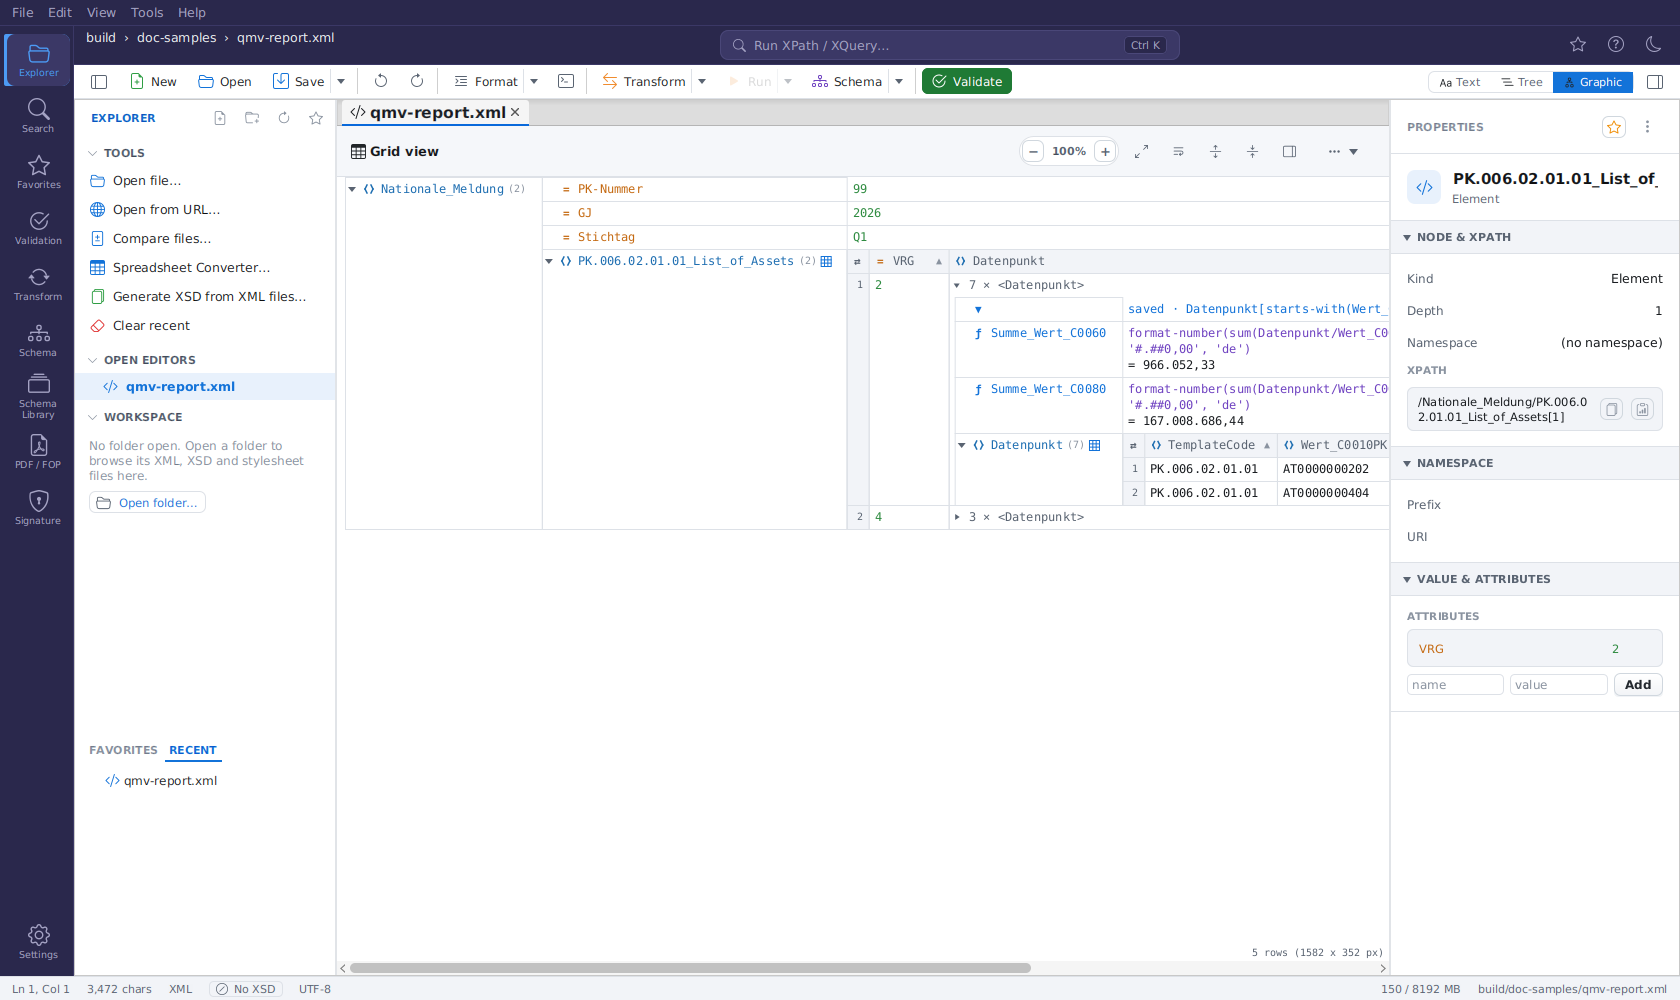
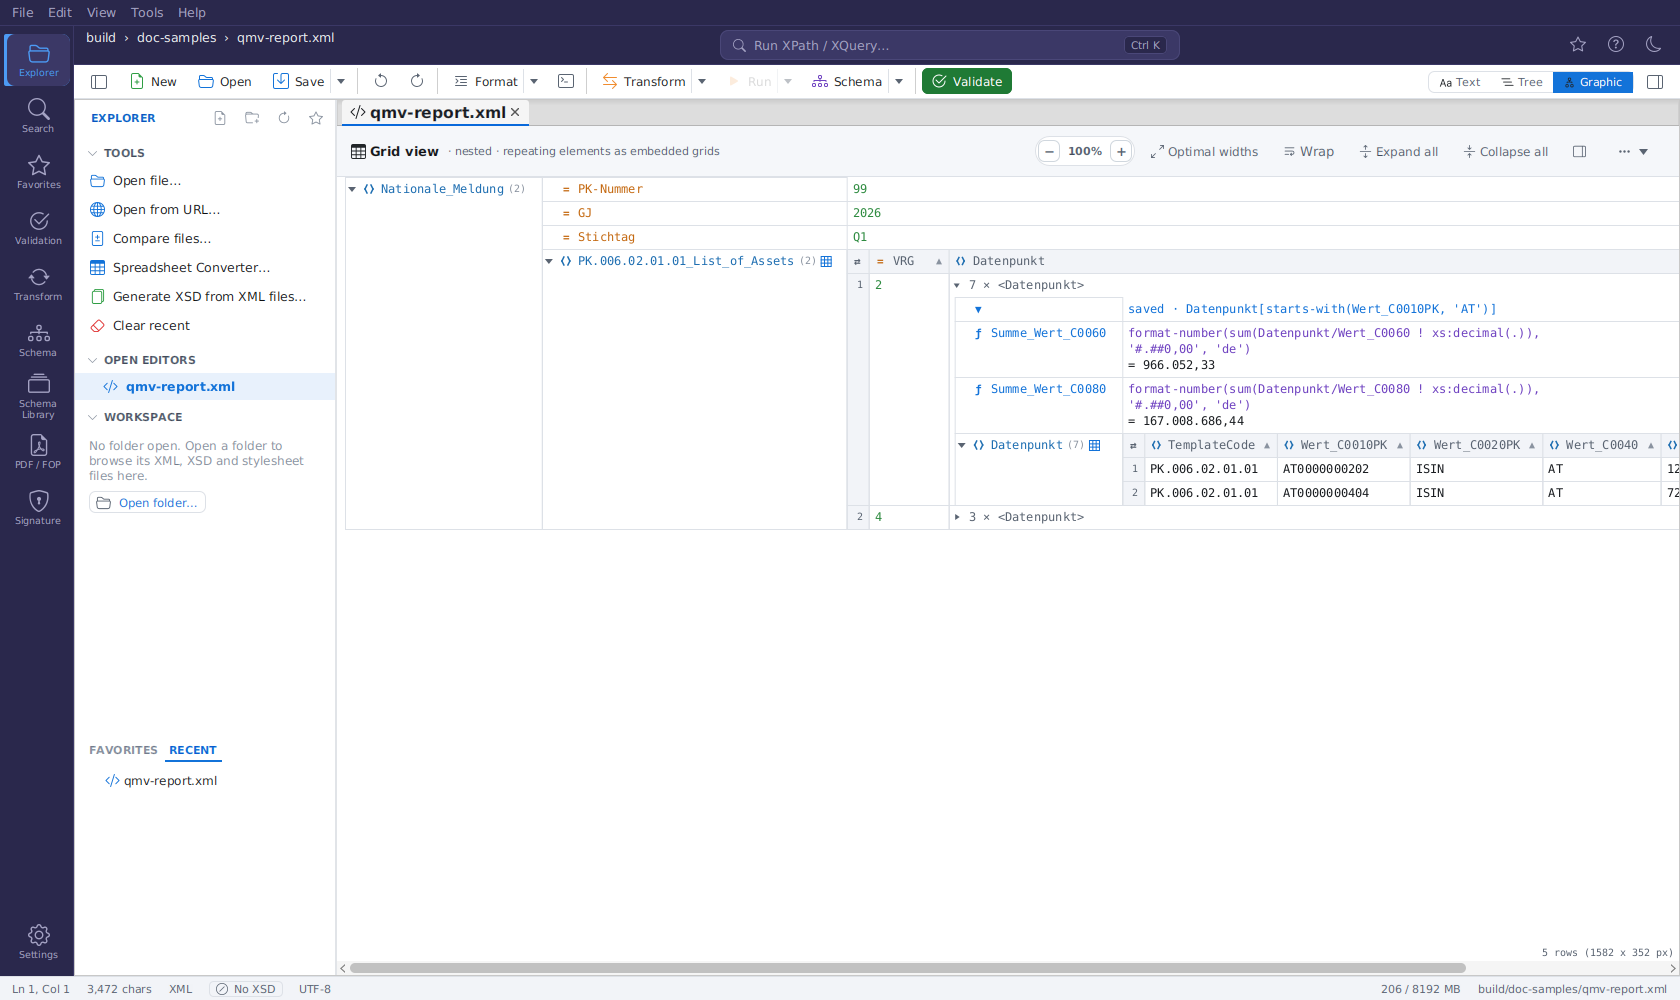
docs(grid): retake formula/filter screenshots without the Properties pane
The Inspector took width from the opened table cell, so the formula and
filter lines were hard to read. The generator now closes it for the shots
and restores it afterwards (the choice is persisted).

diff --git a/src/test/java/org/fxt/freexmltoolkit/controls/v2/xmleditor/view/GridFilterFormulaDocScreenshotGenerator.java b/src/test/java/org/fxt/freexmltoolkit/controls/v2/xmleditor/view/GridFilterFormulaDocScreenshotGenerator.java
@@ -105,6 +105,17 @@ class GridFilterFormulaDocScreenshotGenerator {
         shell = (UnifiedShellView) root.lookup(".fxt-shell");
         EditorHost host = shell.getEditorHost();
         settle(800);
+        // Without the Properties pane the opened cell (formula + filter lines) gets the full width.
+        onFx(() -> shell.setInspectorVisible(false));
+        try {
+            takeShots(host, file);
+        } finally {
+            // setInspectorVisible persists the choice; restore the default for later runs.
+            onFx(() -> shell.setInspectorVisible(true));
+        }
+    }
+
+    private void takeShots(EditorHost host, Path file) throws Exception {
         onFx(() -> host.openFile(file));
         settle(1500);
         onFx(() -> host.setActiveViewMode(ViewMode.GRAPHIC));
